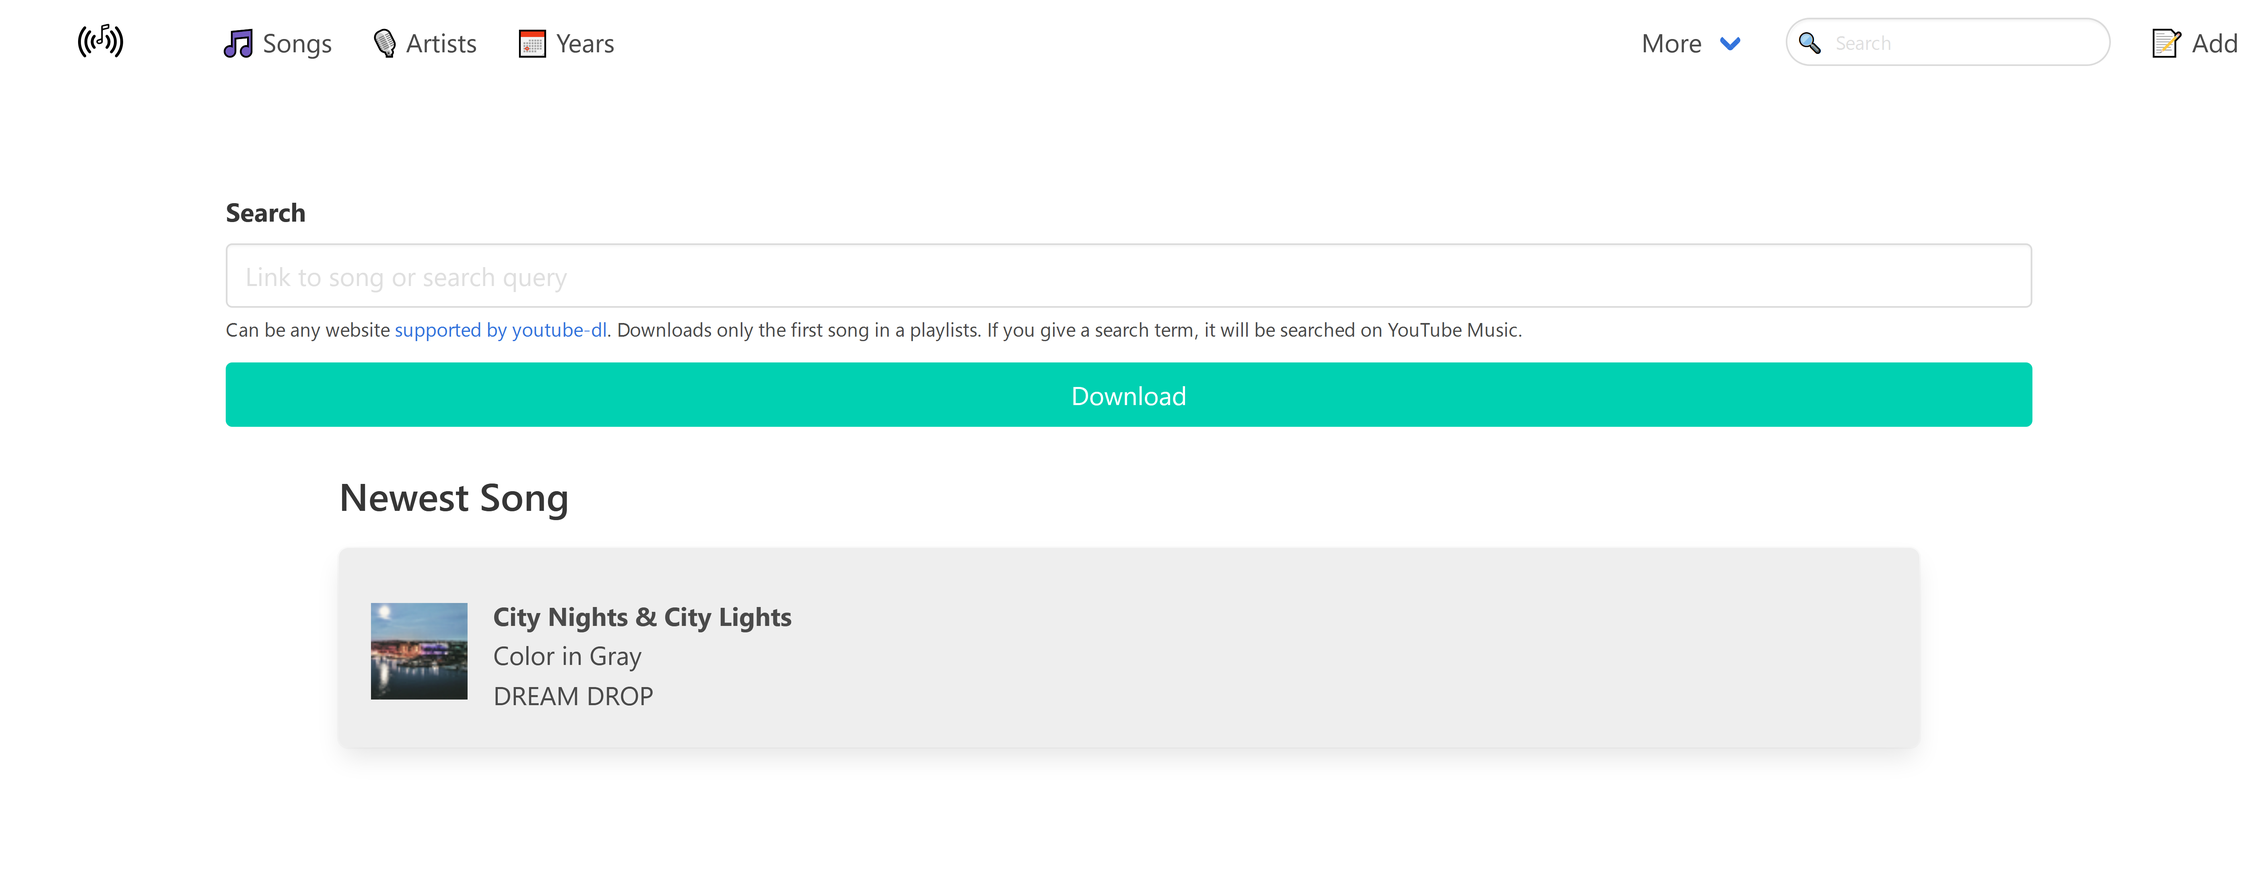
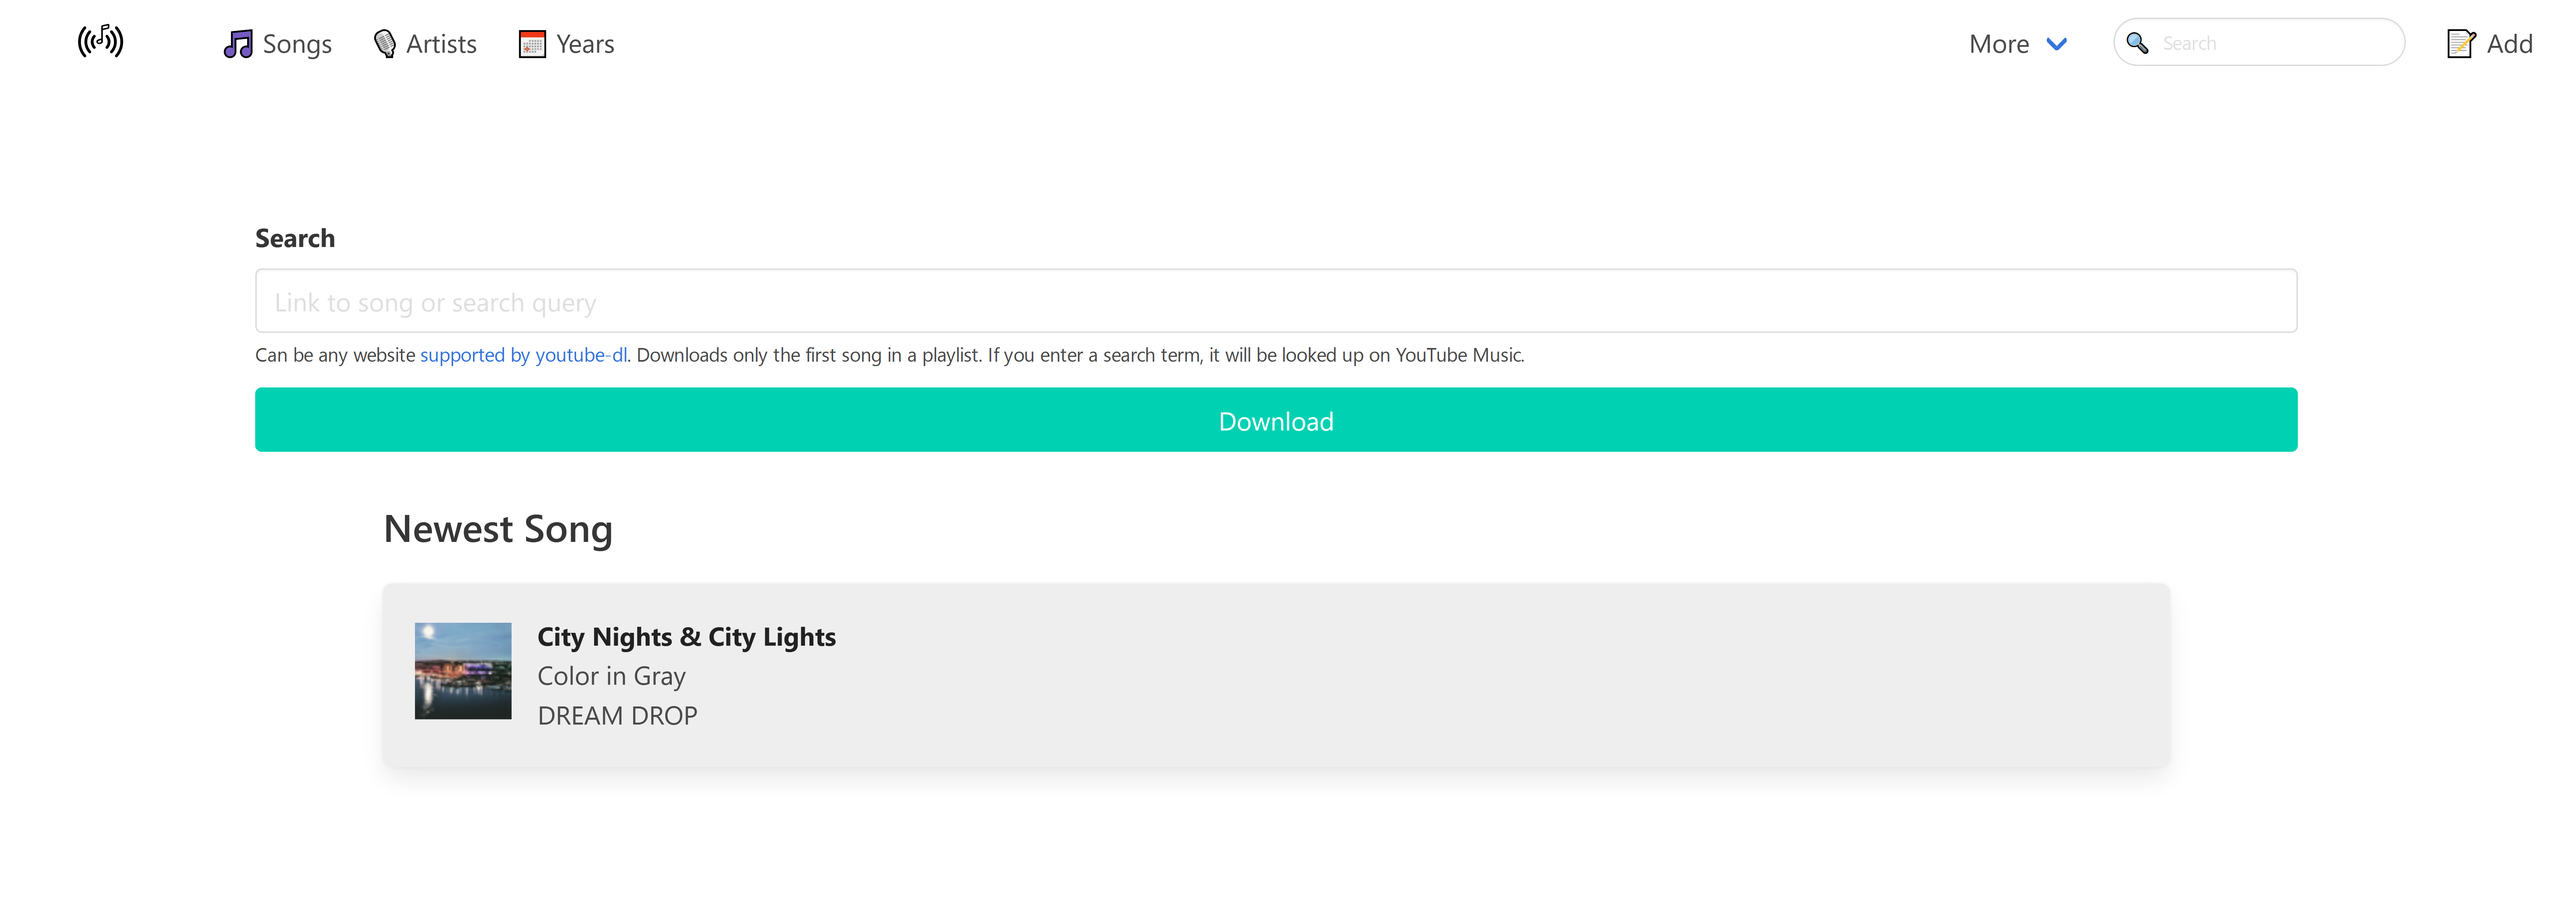
Improve add page spelling

diff --git a/templates/add.html b/templates/add.html
@@ -7,7 +7,7 @@
             <label class="label" for="searchTerm">Search</label>
             <div class="control">
                 <input autofocus="" id="searchTerm" name="searchTerm" type="searchTerm" placeholder="Link to song or search query" class="input" required="">
-                <p class="help">Can be any website <a tabindex="-1" href="https://ytdl-org.github.io/youtube-dl/supportedsites.html" rel="noopener noreferrer">supported by youtube-dl</a>. Downloads only the first song in a playlists. If you give a search term, it will be searched on YouTube Music.</p>
+                <p class="help">Can be any website <a tabindex="-1" href="https://ytdl-org.github.io/youtube-dl/supportedsites.html" rel="noopener noreferrer">supported by youtube-dl</a>. Downloads only the first song in a playlist. If you enter a search term, it will be looked up on YouTube Music.</p>
             </div>
         </div>
 
